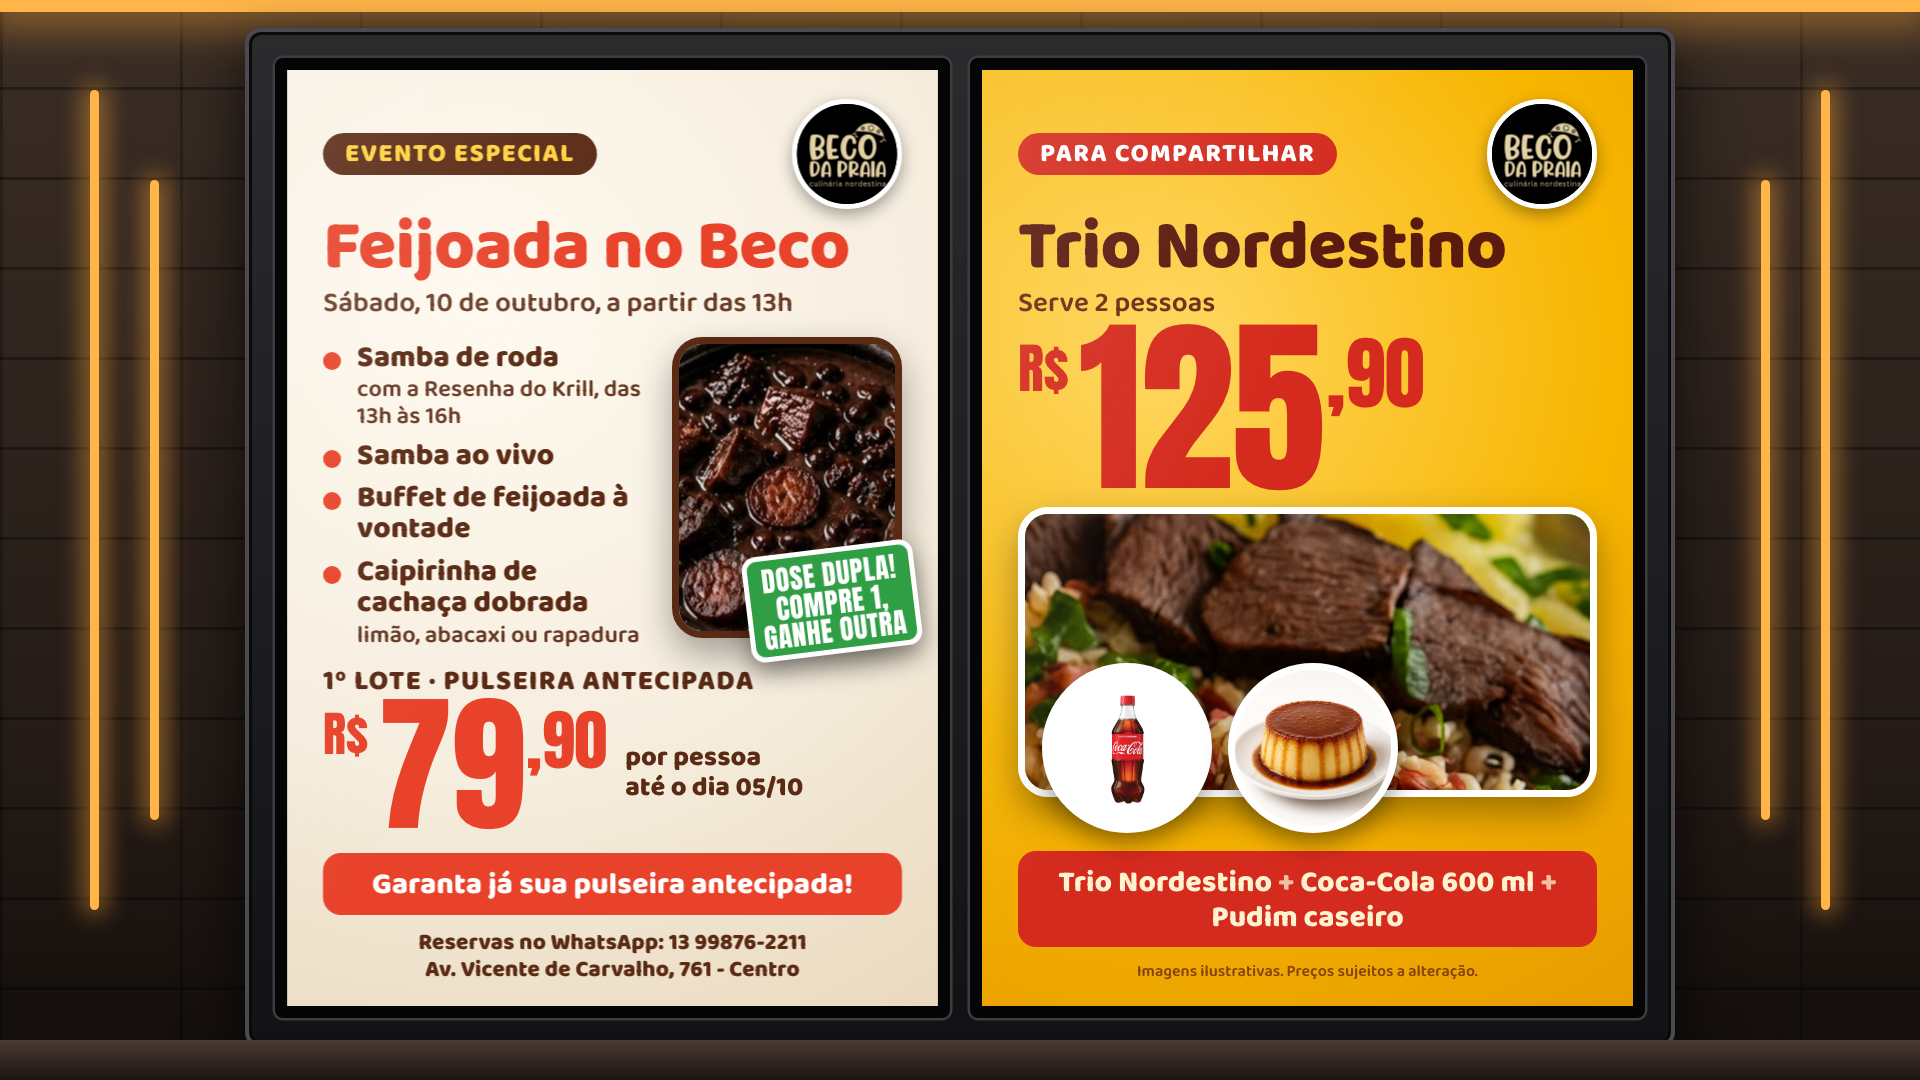
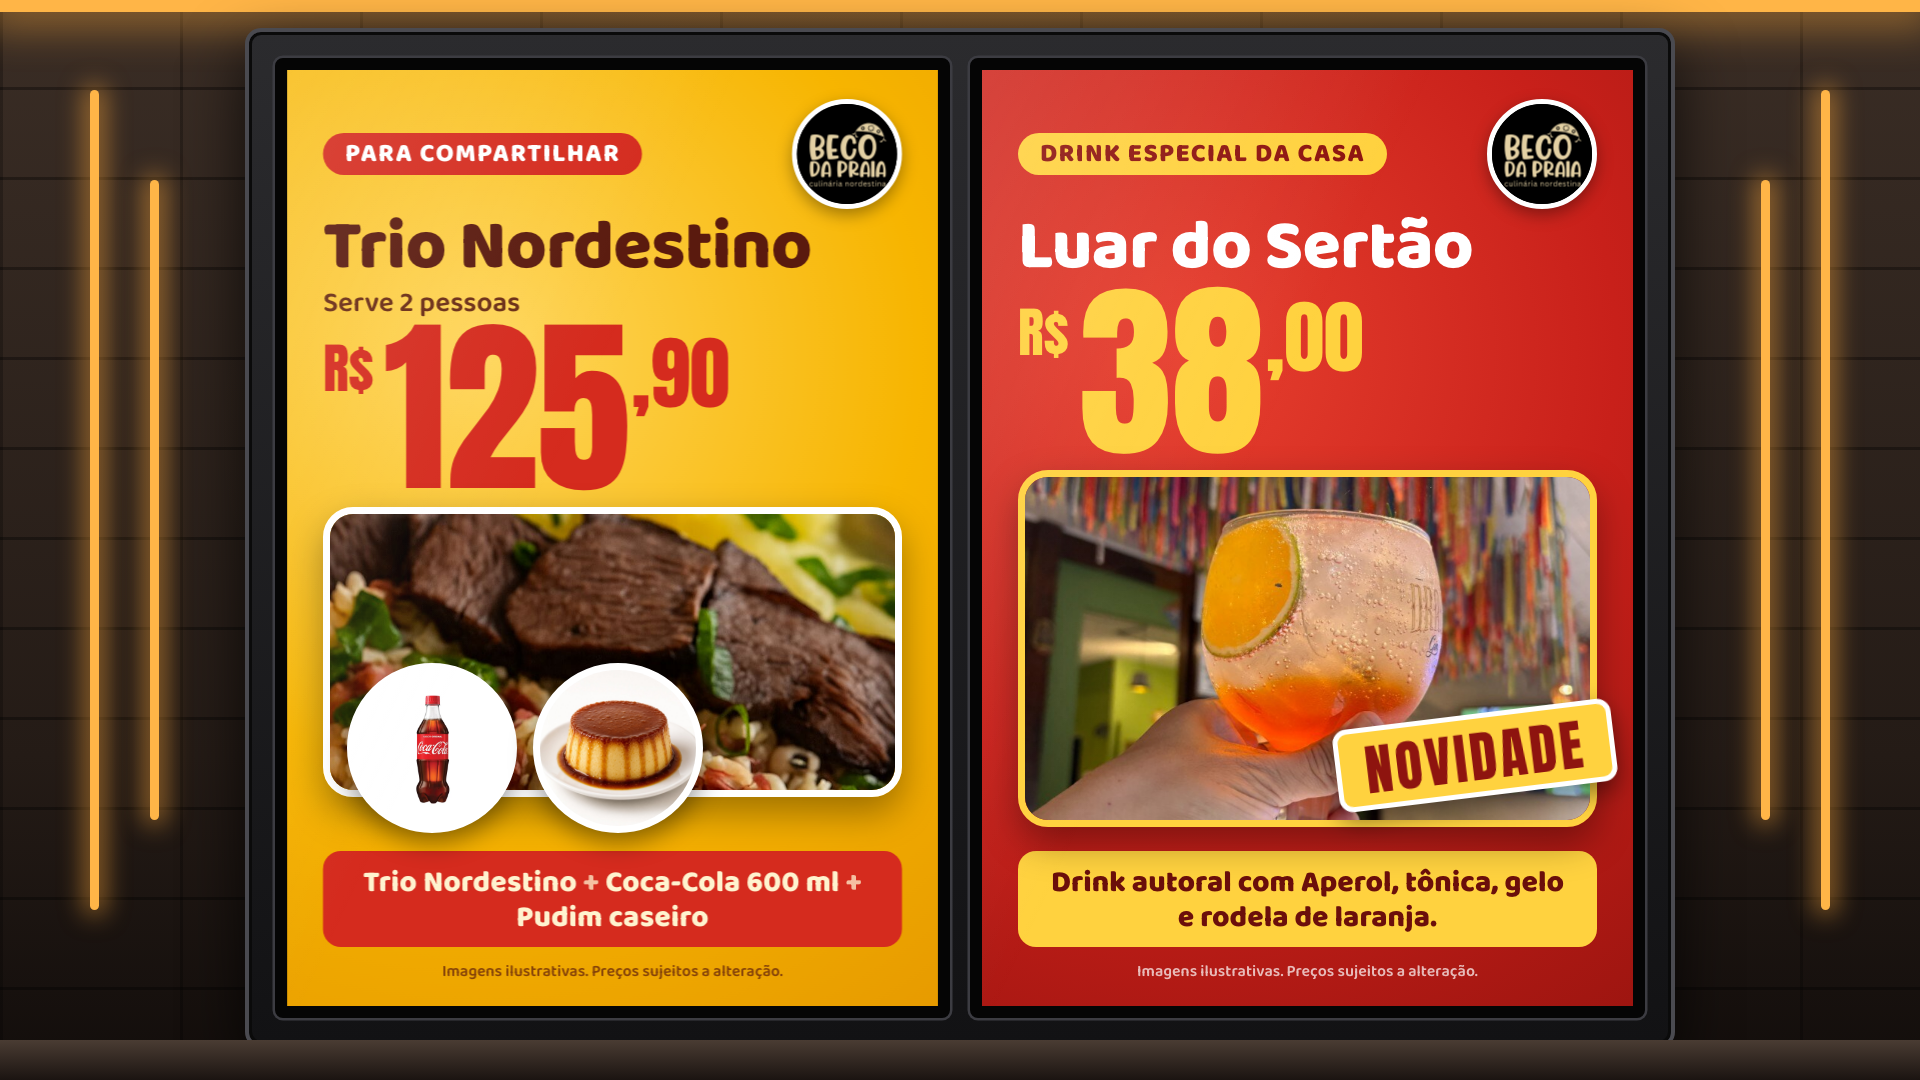
Remove referências restantes à feijoada (README, foto e capturas) e atualiza cache

diff --git a/index.html b/index.html
@@ -10,7 +10,7 @@
   <link rel="preload" href="assets/fonts/baloo2-800-latin.woff2" as="font" type="font/woff2" crossorigin>
   <link rel="icon" href="assets/img/logo-beco-black.png">
   <!-- Ao editar CSS/JS, aumente o ?v= para a TV não usar arquivos antigos do cache. -->
-  <link rel="stylesheet" href="css/style.css?v=12">
+  <link rel="stylesheet" href="css/style.css?v=13">
 </head>
 <body>
   <div id="palco" class="palco">
@@ -35,7 +35,7 @@
     <div class="chao"></div>
   </div>
 
-  <script src="js/slides.js?v=12"></script>
-  <script src="js/app.js?v=12"></script>
+  <script src="js/slides.js?v=13"></script>
+  <script src="js/app.js?v=13"></script>
 </body>
 </html>

diff --git a/README.md b/README.md
@@ -60,36 +60,15 @@ Campos opcionais para layouts especiais (todos em `js/slides.js`):
 
 | Campo | O que faz |
 | --- | --- |
-| `tema: 'creme'` | Fundo creme com título vermelho (usado no slide de evento). |
+| `tema: 'creme'` | Fundo creme com título vermelho (bom para slides de evento). |
 | `subtitulo` | Frase curta logo abaixo do título (em qualquer slide). |
-| `precoRotulo` | Texto pequeno acima do preço (ex.: `'A partir de'`, `'1º lote · pulseira antecipada'`). |
-| `precoDetalhe` | Texto ao lado do preço; `\n` quebra linha (ex.: `'por pessoa\naté o dia 05/10'`). |
-| `lista` | Tópicos ao lado da foto: `['Coco', 'Paçoca']` ou `[{ texto: 'Samba ao vivo', detalhe: '13h às 16h' }]`. Com lista, a foto vira coluna à direita e o preço fica abaixo. Tópicos curtos aparecem maiores. |
-| `destaque` | Selo grande e pulsante sobre a foto (ex.: `'Novidade'`, `'Dose dupla!\nCompre 1,\nganhe outra'`). |
+| `precoRotulo` | Texto pequeno acima do preço (ex.: `'A partir de'`, `'Cada uma'`). |
+| `precoDetalhe` | Texto ao lado do preço; `\n` quebra linha (ex.: `'por pessoa'`). |
+| `lista` | Tópicos ao lado da foto: `['Coco', 'Paçoca']` ou `[{ texto: 'Lira Ouro', detalhe: 'dose R$ 25,00' }]`. Com lista, a foto vira coluna à direita e o preço fica abaixo. Tópicos curtos aparecem maiores. |
+| `destaque` | Selo grande e pulsante sobre a foto (ex.: `'Novidade'`). |
 | `faixa` | Texto da faixa inferior (substitui o automático). |
 | `contato` | Linha(s) de contato no lugar do rodapé (ex.: WhatsApp e endereço). |
 | item `qtd` + `imagem` | Itens com `qtd > 1` e imagem mostram a etiqueta "3x" no círculo. |
-
-Exemplo — evento com lote de pulseira (para virar o lote, edite só `precoRotulo`, `precoDetalhe` e `preco`):
-
-```js
-{
-  id: 'feijoada-no-beco',
-  tema: 'creme',
-  selo: 'Evento especial',
-  titulo: 'Feijoada no Beco',
-  subtitulo: 'Sábado, 10 de outubro, a partir das 13h',
-  imagem: 'assets/img/feijoada-panela.jpg',
-  lista: [{ texto: 'Samba de roda', detalhe: 'com a Resenha do Krill, das 13h às 16h' }, 'Samba ao vivo'],
-  destaque: 'Dose dupla!\nCompre 1,\nganhe outra',
-  precoRotulo: '1º lote · pulseira antecipada',
-  precoDetalhe: 'por pessoa\naté o dia 05/10',
-  itens: [{ nome: 'Feijoada no Beco — pulseira 1º lote', preco: 79.90 }],
-  faixa: 'Garanta já sua pulseira antecipada!',
-  contato: 'Reservas no WhatsApp: 13 99876-2211\nAv. Vicente de Carvalho, 761 - Centro'
-}
-```
-
 - O preço grande do banner é a **soma** de `preco x qtd` de todos os itens (sem descontos).
 - Use `preco: null` se não souber o preço: o banner mostra "Consulte".
 - Com mais de um item, a faixa inferior lista os itens ("A + B + C").
